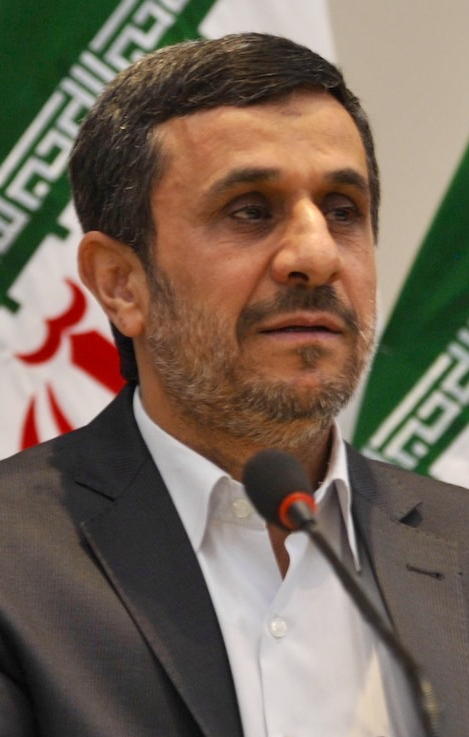
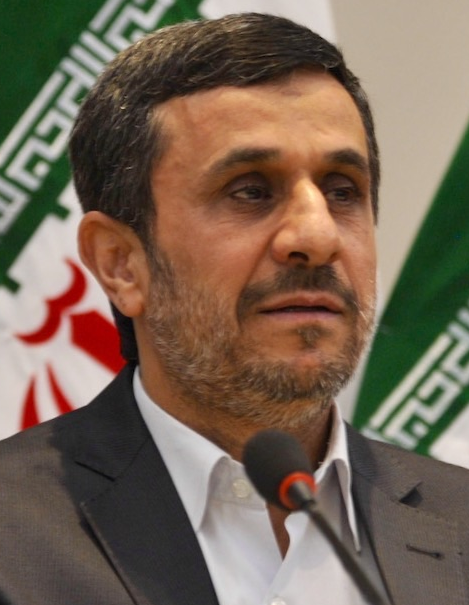
Le fix 5

diff --git a/out/html/game.css b/out/html/game.css
@@ -799,7 +799,6 @@ table {
     background-color: #1e293b !important;
     padding: 0 !important;
     margin: 0 !important;
-    white-space: nowrap !important;
 }
 
 /* --- Optional: Add a clean dark drop shadow to the window frame --- */
